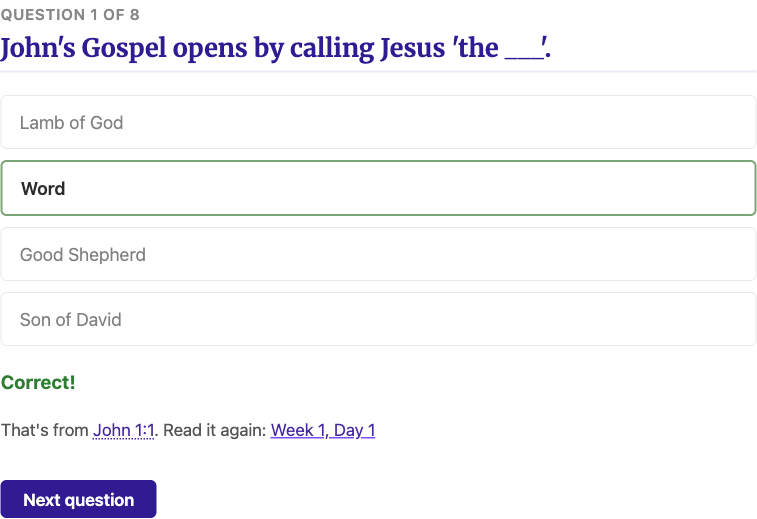
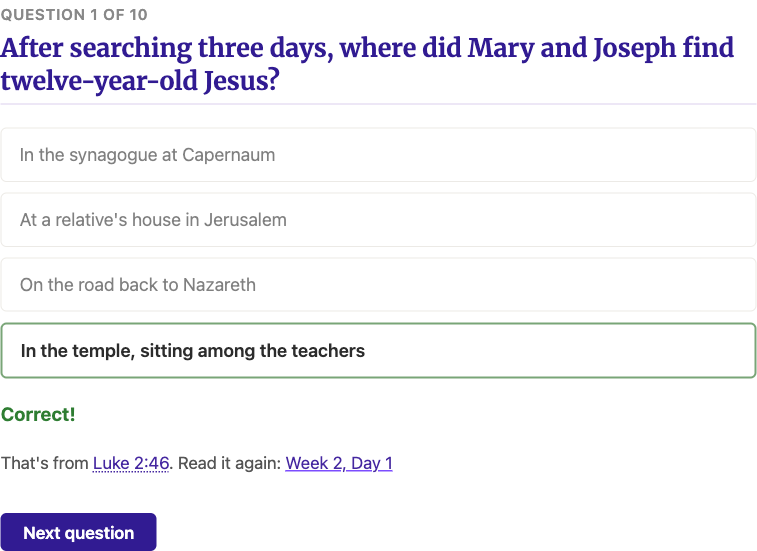
tweaking the quiz settings and its tip page

diff --git a/frontend/javascript/quiz.js b/frontend/javascript/quiz.js
@@ -1,11 +1,25 @@
-// The warm-up quiz. /{study}/quiz/?week=N asks questions drawn from weeks
-// 1..N-1 of the pool injected by _quiz.erb from src/_data/{study}/quiz.yml.
-// With no parameters the page offers a quiz over everything read so far
-// (judged from the reader's progress) and a week picker. Nothing is graded
-// or recorded beyond a personal best kept in localStorage under
-// `<storage_prefix>_quiz`.
+// The warm-up quiz. /{study}/quiz/?week=N asks questions drawn from the
+// weeks just before week N, out of the pool injected by _quiz.erb from
+// src/_data/{study}/quiz.yml. With no parameters the page offers a quiz on
+// the weeks just read (judged from the reader's progress) and a week
+// picker. Nothing is graded and nothing is recorded: the score exists only
+// on screen, for the moment.
 
-const QUIZ_LENGTH = 8
+import { SETTINGS_KEY } from "./storage-keys.js"
+
+// How many questions per quiz and how many weeks back to draw from are the
+// reader's to set on the settings page. Clamped here as well as there, so a
+// hand-edited localStorage value cannot break the draw.
+function getQuizSettings() {
+  let stored = {}
+  try { stored = JSON.parse(localStorage.getItem(SETTINGS_KEY) || "{}") } catch { /* fall through */ }
+  const length = parseInt(stored.quizLength, 10)
+  const lookback = parseInt(stored.quizLookback, 10)
+  return {
+    length: Number.isInteger(length) ? Math.min(20, Math.max(5, length)) : 10,
+    lookback: Number.isInteger(lookback) ? Math.min(6, Math.max(1, lookback)) : 4,
+  }
+}
 
 // --- Injected data (same pattern as journal.js / progress.js) ---
 
@@ -46,11 +60,12 @@ function authoredWeeks(pool) {
     .sort((a, b) => a - b)
 }
 
-// Every question from weeks 1..upTo, each tagged with the week it came from.
-function questionsThrough(pool, upTo) {
+// Every question from weeks from..upTo, each tagged with the week it came from.
+function questionsBetween(pool, from, upTo) {
   const questions = []
   for (const w of authoredWeeks(pool)) {
     if (w > upTo) break
+    if (w < from) continue
     for (const q of pool[String(w)]) questions.push(Object.assign({ week: w }, q))
   }
   return questions
@@ -65,11 +80,12 @@ function shuffle(items) {
   return a
 }
 
-// "weeks 1 to 4", or "week 1" when only one week has questions.
-function coverageLabel(pool, upTo) {
-  const weeks = authoredWeeks(pool).filter(w => w <= upTo)
+// "weeks 5 to 8", or "week 8" when only one week in the range has questions.
+function coverageLabel(pool, from, upTo) {
+  const weeks = authoredWeeks(pool).filter(w => w >= from && w <= upTo)
+  const lo = weeks[0]
   const hi = weeks[weeks.length - 1]
-  return weeks.length > 1 ? `weeks 1 to ${hi}` : `week ${hi}`
+  return weeks.length > 1 ? `weeks ${lo} to ${hi}` : `week ${hi}`
 }
 
 // --- Reading progress (read-only; progress.js owns this key) ---
@@ -92,26 +108,6 @@ function highestWeekTouched() {
   return highest
 }
 
-// --- Personal bests ---
-
-function getBestKey() { return `${getStoragePrefix()}_quiz` }
-
-function getBests() {
-  try {
-    const data = localStorage.getItem(getBestKey())
-    return data ? JSON.parse(data) : {}
-  } catch { return {} }
-}
-
-function getBest(quizId) { return getBests()[quizId] || null }
-
-function saveBestIfBetter(quizId, correct, total) {
-  const bests = getBests()
-  const prev = bests[quizId]
-  if (prev && prev.correct / prev.total >= correct / total) return
-  bests[quizId] = { correct, total, date: new Date().toISOString() }
-  try { localStorage.setItem(getBestKey(), JSON.stringify(bests)) } catch { /* storage full or blocked */ }
-}
 
 // --- Views ---
 
@@ -229,7 +225,7 @@ function buildPrintSheet(questions, contextLine) {
 
 // --- The quiz itself ---
 
-function runQuiz(pool, upToWeek, quizId, contextLine, onward) {
+function runQuiz(pool, fromWeek, upToWeek, contextLine, onward) {
   const els = viewEls()
   els.context.textContent = contextLine
   els.start.style.display = "none"
@@ -238,8 +234,8 @@ function runQuiz(pool, upToWeek, quizId, contextLine, onward) {
 
   // Choices are shuffled once per draw, here, so the printed worksheet and
   // the on-screen quiz show every question's choices in the same order.
-  const questions = shuffle(questionsThrough(pool, upToWeek))
-    .slice(0, QUIZ_LENGTH)
+  const questions = shuffle(questionsBetween(pool, fromWeek, upToWeek))
+    .slice(0, getQuizSettings().length)
     .map(q => Object.assign({}, q, { order: shuffle(q.choices || []) }))
   buildPrintSheet(questions, contextLine)
   const progressEl = document.getElementById("quiz-progress")
@@ -308,10 +304,6 @@ function runQuiz(pool, upToWeek, quizId, contextLine, onward) {
   function showResults() {
     els.play.style.display = "none"
 
-    const prev = getBest(quizId)
-    const isNewBest = !prev || correctCount / questions.length > prev.correct / prev.total
-    saveBestIfBetter(quizId, correctCount, questions.length)
-
     els.results.innerHTML = ""
 
     const heading = document.createElement("h2")
@@ -322,18 +314,6 @@ function runQuiz(pool, upToWeek, quizId, contextLine, onward) {
     line.textContent = scoreLine(correctCount, questions.length)
     els.results.appendChild(line)
 
-    if (prev && isNewBest) {
-      const best = document.createElement("p")
-      best.classList.add("quiz-best")
-      best.textContent = `A new personal best. Your old mark was ${prev.correct} of ${prev.total}.`
-      els.results.appendChild(best)
-    } else if (prev) {
-      const best = document.createElement("p")
-      best.classList.add("quiz-best")
-      best.textContent = `Your best on this quiz: ${prev.correct} of ${prev.total}.`
-      els.results.appendChild(best)
-    }
-
     const actions = document.createElement("p")
     actions.classList.add("quiz-actions")
 
@@ -342,7 +322,7 @@ function runQuiz(pool, upToWeek, quizId, contextLine, onward) {
     again.classList.add("quiz-go-btn")
     again.textContent = "Try again"
     again.addEventListener("click", () => {
-      runQuiz(pool, upToWeek, quizId, contextLine, onward)
+      runQuiz(pool, fromWeek, upToWeek, contextLine, onward)
     })
     actions.appendChild(again)
 
@@ -371,16 +351,17 @@ function runQuiz(pool, upToWeek, quizId, contextLine, onward) {
 
 function startWeekQuiz(pool, week) {
   const upTo = week - 1
-  if (questionsThrough(pool, upTo).length === 0) {
-    showEmpty("Questions for the earlier weeks haven't been written yet.")
+  const from = Math.max(1, week - getQuizSettings().lookback)
+  if (questionsBetween(pool, from, upTo).length === 0) {
+    showEmpty("Questions for those weeks haven't been written yet.")
     return
   }
 
-  const contextLine = `Starting week ${week}: questions from ${coverageLabel(pool, upTo)}.`
+  const contextLine = `Starting week ${week}: questions from ${coverageLabel(pool, from, upTo)}.`
   const onward = week <= getTotalWeeks()
     ? { url: `${weekPath(week)}/overview/`, label: `On to week ${week}` }
     : null
-  runQuiz(pool, upTo, `week-${week}`, contextLine, onward)
+  runQuiz(pool, from, upTo, contextLine, onward)
 }
 
 // --- No-params view ---
@@ -391,15 +372,17 @@ function initStart(pool) {
   els.start.style.display = "block"
 
   // "Quiz me on what I've read": only shown once progress reaches a week
-  // that has questions behind it.
+  // with questions, and scoped by the same look-back setting as the weekly
+  // quizzes, counted back from the latest week the reader has touched.
   const touched = highestWeekTouched()
-  if (touched >= 1 && questionsThrough(pool, touched).length > 0) {
+  const from = Math.max(1, touched - getQuizSettings().lookback + 1)
+  if (touched >= 1 && questionsBetween(pool, from, touched).length > 0) {
     const soFar = document.getElementById("quiz-so-far")
-    soFar.textContent = `Quiz me on what I've read (${coverageLabel(pool, touched)})`
+    soFar.textContent = `Quiz me on what I've read (${coverageLabel(pool, from, touched)})`
     soFar.style.display = "inline-block"
     soFar.addEventListener("click", () => {
-      const contextLine = `Everything so far: questions from ${coverageLabel(pool, touched)}.`
-      runQuiz(pool, touched, `through-${touched}`, contextLine, null)
+      const contextLine = `Looking back: questions from ${coverageLabel(pool, from, touched)}.`
+      runQuiz(pool, from, touched, contextLine, null)
     })
   }
 

diff --git a/frontend/javascript/settings.js b/frontend/javascript/settings.js
@@ -19,8 +19,20 @@ const DEFAULT_SETTINGS = {
   },
   siteTheme: "light",
   fontSize: 18,
+  quizLength: 10,
+  quizLookback: 4,
   journalPromptMethod: CUSTOM_METHOD,
   journalPlaceholder: DEFAULT_JOURNAL_PLACEHOLDER,
+}
+
+// Quiz settings are clamped on read as well as on entry, so a hand-edited
+// localStorage value cannot break the draw. quiz.js applies the same limits.
+function clampQuizLength(n) {
+  return Number.isInteger(n) ? Math.min(20, Math.max(5, n)) : DEFAULT_SETTINGS.quizLength
+}
+
+function clampQuizLookback(n) {
+  return Number.isInteger(n) ? Math.min(6, Math.max(1, n)) : DEFAULT_SETTINGS.quizLookback
 }
 
 // --- Settings storage ---
@@ -32,6 +44,8 @@ function getSettings() {
       features: { ...DEFAULT_SETTINGS.features, ...(stored.features || {}) },
       siteTheme: stored.siteTheme || DEFAULT_SETTINGS.siteTheme,
       fontSize: parseInt(stored.fontSize, 10) || DEFAULT_SETTINGS.fontSize,
+      quizLength: clampQuizLength(parseInt(stored.quizLength, 10)),
+      quizLookback: clampQuizLookback(parseInt(stored.quizLookback, 10)),
       journalPromptMethod: findMethod(stored.journalPromptMethod)
         ? stored.journalPromptMethod
         : DEFAULT_SETTINGS.journalPromptMethod,
@@ -708,6 +722,30 @@ function initSettingsPage() {
 
     fontSizeInput.addEventListener("change", () => {
       applyAndSaveFontSize(clampFontSize(parseInt(fontSizeInput.value, 10) || 18))
+    })
+  }
+
+  const quizLengthInput = document.getElementById("setting-quiz-length")
+  if (quizLengthInput) {
+    quizLengthInput.value = settings.quizLength
+    quizLengthInput.addEventListener("change", () => {
+      const s = getSettings()
+      s.quizLength = clampQuizLength(parseInt(quizLengthInput.value, 10))
+      saveSettings(s)
+      quizLengthInput.value = s.quizLength
+      showStatus(`Warm-up quizzes will ask ${s.quizLength} questions.`)
+    })
+  }
+
+  const quizLookbackInput = document.getElementById("setting-quiz-lookback")
+  if (quizLookbackInput) {
+    quizLookbackInput.value = settings.quizLookback
+    quizLookbackInput.addEventListener("change", () => {
+      const s = getSettings()
+      s.quizLookback = clampQuizLookback(parseInt(quizLookbackInput.value, 10))
+      saveSettings(s)
+      quizLookbackInput.value = s.quizLookback
+      showStatus(`Warm-up quizzes will draw from the ${s.quizLookback === 1 ? "week" : `${s.quizLookback} weeks`} before the one you are starting.`)
     })
   }
 

diff --git a/frontend/styles/index.css b/frontend/styles/index.css
@@ -3208,6 +3208,28 @@ button.toolbar-icon {
   background: var(--purple-faint);
 }
 
+/* Standalone number fields on the settings page (the quiz settings). Unlike
+   .font-size-input, these are not inside a bordered stepper, so they carry
+   their own border and keep the native spin buttons. */
+.settings-number-input {
+  font-family: var(--font-sans);
+  font-size: 0.95rem;
+  font-weight: 600;
+  width: 4.5rem;
+  text-align: center;
+  color: var(--text-primary);
+  background: var(--bg-surface);
+  border: 1px solid var(--border-color);
+  border-radius: var(--radius);
+  padding: 0.45rem 0.25rem;
+}
+
+.settings-number-input:focus {
+  outline: none;
+  border-color: var(--purple-light);
+  background: var(--purple-faint);
+}
+
 
 /* --- Group Member Editor --- */
 
@@ -4645,11 +4667,6 @@ button.toolbar-icon {
 
 .quiz-results h2 {
   margin-bottom: 0.5rem;
-}
-
-.quiz-best {
-  font-family: var(--font-sans);
-  color: var(--text-secondary);
 }
 
 .quiz-actions {

diff --git a/CLAUDE.md b/CLAUDE.md
@@ -94,7 +94,7 @@ Entry point: `frontend/javascript/index.js`. Each feature is its own module:
 | `page-speak.js` | Read-aloud for any page |
 | `discussions.js` | Giscus (GitHub Discussions) widget |
 | `group-share.js` | Email export of journal entries |
-| `quiz.js` | The warm-up quiz: draws questions from the study's pool, checks answers, keeps a personal best |
+| `quiz.js` | The warm-up quiz: draws questions from the study's pool, checks answers, builds the print worksheet |
 | `storage-keys.js` | The two global localStorage keys, shared by every module |
 | `journal-entry.js` | The entry shape: text, timestamp, and week/day ordering helpers |
 | `journal-print.js` | Renders the whole journal onto the print page |
@@ -119,7 +119,7 @@ The ghost text in an empty box comes from the reader's own setting (`journalProm
 
 ## Key Invariants
 
-- **`storage_prefix`** in each `study_config.yml` must be unique across studies. It scopes the per-study keys only — `<prefix>_journal`, `<prefix>_progress`, and `<prefix>_quiz`.
+- **`storage_prefix`** in each `study_config.yml` must be unique across studies. It scopes the per-study keys only — `<prefix>_journal` and `<prefix>_progress`.
 - Settings (`bst_settings`) and the study group (`bst_group`) are **global**, not per-study: one settings object and one group list for the whole site. Both names live in `frontend/javascript/storage-keys.js` and every module imports them from there. The single exception is the FOUC-prevention script in `src/_partials/_head.erb`, which runs before the bundle and repeats `"bst_settings"` by hand.
 - Journal entries live in `localStorage` under `<storage_prefix>_journal`, keyed `w{week}-d{day}`, shaped `{ text, reading, title, updated }`. The older `<storage_prefix>_hear` key and its `h`/`e`/`a`/`r` fields are no longer read by anything; that data is orphaned rather than deleted.
 - An entry with no text in it is not stored: emptying the box deletes the entry. The text field is the whole entry, so a blank one is nothing — counts, exports and imports never include them.
@@ -136,6 +136,6 @@ The ghost text in an empty box comes from the reader's own setting (`journalProm
 - When adding a new section or week, update both `study_config.yml` and `week_phases.yml` for that study; no other configuration is needed.
 - Adding a new study requires: a directory under `src/`, a data directory under `src/_data/`, and an entry in `src/_data/studies.yml`.
 - Set `hidden: true` on a studies.yml entry to omit it from the landing page (use while a study is under construction). Omitting the key or setting it to `false` shows the study.
-- The warm-up quiz is per-study: `src/{slug}/quiz.erb` (page at `/{slug}/quiz/`) renders `_partials/_quiz.erb`, and `quiz.js` builds the views from `src/_data/{slug}/quiz.yml` — a `weeks:` map of question pools, filed under the week each question's reading belongs to. `?week=N` quizzes on weeks 1 through N−1; no params offers a quiz over everything read so far plus a week picker. The "Remember?" line on weekly overviews (rendered by `page.erb`, like the timeline's "When am I?" line) appears only when an earlier week has questions in that study's `quiz.yml`, and carries `data-feature="quiz"` so the global quiz toggle in settings controls it (opt-in, default off, like group and discussions — note the `!== true` FOUC pattern in `_head.erb`; the toggle hides the link, never the page). Scores are never graded or stored beyond a personal best under `<prefix>_quiz`; every reveal names the answer in words (never color alone) and links back to the day page it came from. Printing a running quiz yields a worksheet: `quiz.js` builds the whole draw (numbered questions, checkbox choices, same shuffled order as on screen) into `#quiz-print`, followed by an Answer Key that always starts on its own page (answer, reference, week, and day per question), and the print stylesheet swaps it all in for the one-at-a-time view, keeping each question whole on a page; the week picker still prints as itself. The sheet is a one-column table because that is the repetition mechanism browsers support in print: its thead ("Warm-Up Quiz · Starting week N…") and tfoot (site name · print date) repeat as a running header and footer on every printed page, one tbody row per question carries the keep-together rule, and the on-page h1 is hidden in print so page 1 isn't double-headed. Only ntc1y has a `quiz.yml` so far.
+- The warm-up quiz is per-study: `src/{slug}/quiz.erb` (page at `/{slug}/quiz/`) renders `_partials/_quiz.erb`, and `quiz.js` builds the views from `src/_data/{slug}/quiz.yml` — a `weeks:` map of question pools, filed under the week each question's reading belongs to. `?week=N` quizzes on the weeks just before N; no params offers a quiz on the weeks just read (from progress) plus a week picker. Two reader settings in `bst_settings` shape every draw — `quizLength` (5–20 questions, default 10) and `quizLookback` (1–6 weeks before the week being started, default 4) — clamped in both `settings.js` and `quiz.js`, edited in the Settings page's Warm-Up Quiz section, which carries `data-feature="quiz"` and so hides with the toggle. The "Remember?" line on weekly overviews (rendered by `page.erb`, like the timeline's "When am I?" line) appears only when an earlier week has questions in that study's `quiz.yml`, and carries `data-feature="quiz"` so the global quiz toggle in settings controls it (opt-in, default off, like group and discussions — note the `!== true` FOUC pattern in `_head.erb`; the toggle hides the link, never the page). Scores are never graded or stored — the result exists only on screen, for the moment; every reveal names the answer in words (never color alone) and links back to the day page it came from. Printing a running quiz yields a worksheet: `quiz.js` builds the whole draw (numbered questions, checkbox choices, same shuffled order as on screen) into `#quiz-print`, followed by an Answer Key that always starts on its own page (answer, reference, week, and day per question), and the print stylesheet swaps it all in for the one-at-a-time view, keeping each question whole on a page; the week picker still prints as itself. The sheet is a one-column table because that is the repetition mechanism browsers support in print: its thead ("Warm-Up Quiz · Starting week N…") and tfoot (site name · print date) repeat as a running header and footer on every printed page, one tbody row per question carries the keep-together rule, and the on-page h1 is hidden in print so page 1 isn't double-headed. Only ntc1y has a `quiz.yml` so far.
 - The timeline is per-study: `src/{slug}/timeline.erb` (page at `/{slug}/timeline/`) renders `_partials/_timeline.erb` from `src/_data/{slug}/timeline.yml`. The "When am I?" line on weekly overviews (rendered by `page.erb`) appears only for studies whose data directory contains `timeline.yml`; its `weeks:` map drives the hidden `#week-NN` "you are here" markers that CSS `:target` reveals — no JavaScript involved. Only ntc1y has one so far; an ot1y timeline needs a different, non-linear treatment (see `timeline.md`).
 - `page-speak.js` hides `svg` elements (and anything marked `data-nospeak`) while taking its `innerText` snapshot, so inline SVG labels — the maps, the timeline — are never read aloud; figcaptions and the timeline's text listing still are. Elements marked `data-speak-pause` (the quiz's answer choices, progress line, and reference line) get a period appended for the snapshot unless they already end in punctuation, so each is spoken as its own sentence instead of running together.

diff --git a/src/tips/24_warm-up-before-you-read.md b/src/tips/24_warm-up-before-you-read.md
@@ -7,12 +7,16 @@ description: An opt-in quiz asks a few quick questions about the weeks you have 
 
 The hardest part of a year-long reading plan is not the reading. It is coming back. Between the end of one week and the start of the next, the thread goes slack, and a new week opens with names and places you half remember from three weeks ago.
 
-The New Testament study has a warm-up quiz for exactly that moment. Turn it on and every weekly overview from week 2 onward begins with a small line that asks: Remember? Follow it and you get eight quick questions drawn from the weeks you have already read. Multiple choice, one question at a time, a minute or two start to finish.
+The New Testament study has a warm-up quiz for exactly that moment. Turn it on and every weekly overview from week 2 onward begins with a small line that asks: Remember? Follow it and you get a short run of questions drawn from the weeks just behind you. Multiple choice, one question at a time, a minute or two start to finish.
 
-Nothing is graded and nothing is reported. The only thing the site keeps is your own personal best, stored in your browser like everything else here. Miss a question and the quiz tells you the answer in words, names the passage it came from, and links you straight back to that day's reading. A wrong answer that sends you back to the text is the quiz doing its job.
+Nothing is graded, nothing is reported, and nothing is stored. Your score appears on screen for the moment and is gone when you leave. Miss a question and the quiz tells you the answer in words, names the passage it came from, and links you straight back to that day's reading. A wrong answer that sends you back to the text is the quiz doing its job.
 
-![A quiz question, 1 of 8: John's Gospel opens by calling Jesus "the blank". Four choices are listed, and the choice Word is outlined in green. Below the choices, in green, the verdict Correct! Under that, a line reads: That's from John 1:1. Read it again: Week 1, Day 1.](/images/tips/quiz-reveal.png)
+![A quiz question, 1 of 10: After searching three days, where did Mary and Joseph find twelve-year-old Jesus? Four choices are listed, and the choice "In the temple, sitting among the teachers" is outlined in green. Below the choices, in green, the verdict Correct! Under that, a line reads: That's from Luke 2:46. Read it again: Week 2, Day 1.](/images/tips/quiz-reveal.png)
 
-The quiz is off by default. Open Settings from the menu, find Features, and switch on Warm-Up Quiz.
+The quiz prints well, too. Use the Print button while a quiz is open and you get the whole thing as a worksheet: every question with a checkbox beside each choice, and an answer key on its own last page. Handy for a study group around a table, or for anyone who would rather hold paper than a phone.
 
-Take it before you read, not after. Reaching back for last week's story just before you pick up this week's is what makes the year hold together as one book instead of fifty-two pieces.
+The quiz is off by default. Open Settings from the menu, find Features, and switch on Warm-Up Quiz. Once it is on, a Warm-Up Quiz section appears further down the same page with two numbers you can change. Questions per quiz sets how long each quiz runs, anywhere from 5 to 20; it defaults to 10. Weeks to look back sets how far behind you the questions reach, from 1 to 6 weeks, counted from the week you are starting: starting week 9 with a look-back of 4 draws its questions from weeks 5 through 8. Shorten the look-back to keep the quiz on fresh memories; stretch it to keep older weeks alive.
+
+![The Warm-Up Quiz section of the Settings page: a short explanation, then two number fields, Questions per quiz set to 10 and Weeks to look back set to 4.](/images/tips/quiz-settings.png)
+
+Take it before you start reading the new week. Refreshing your memory with the prior weeks study is what makes the year hold together as one book instead of fifty-two pieces.
